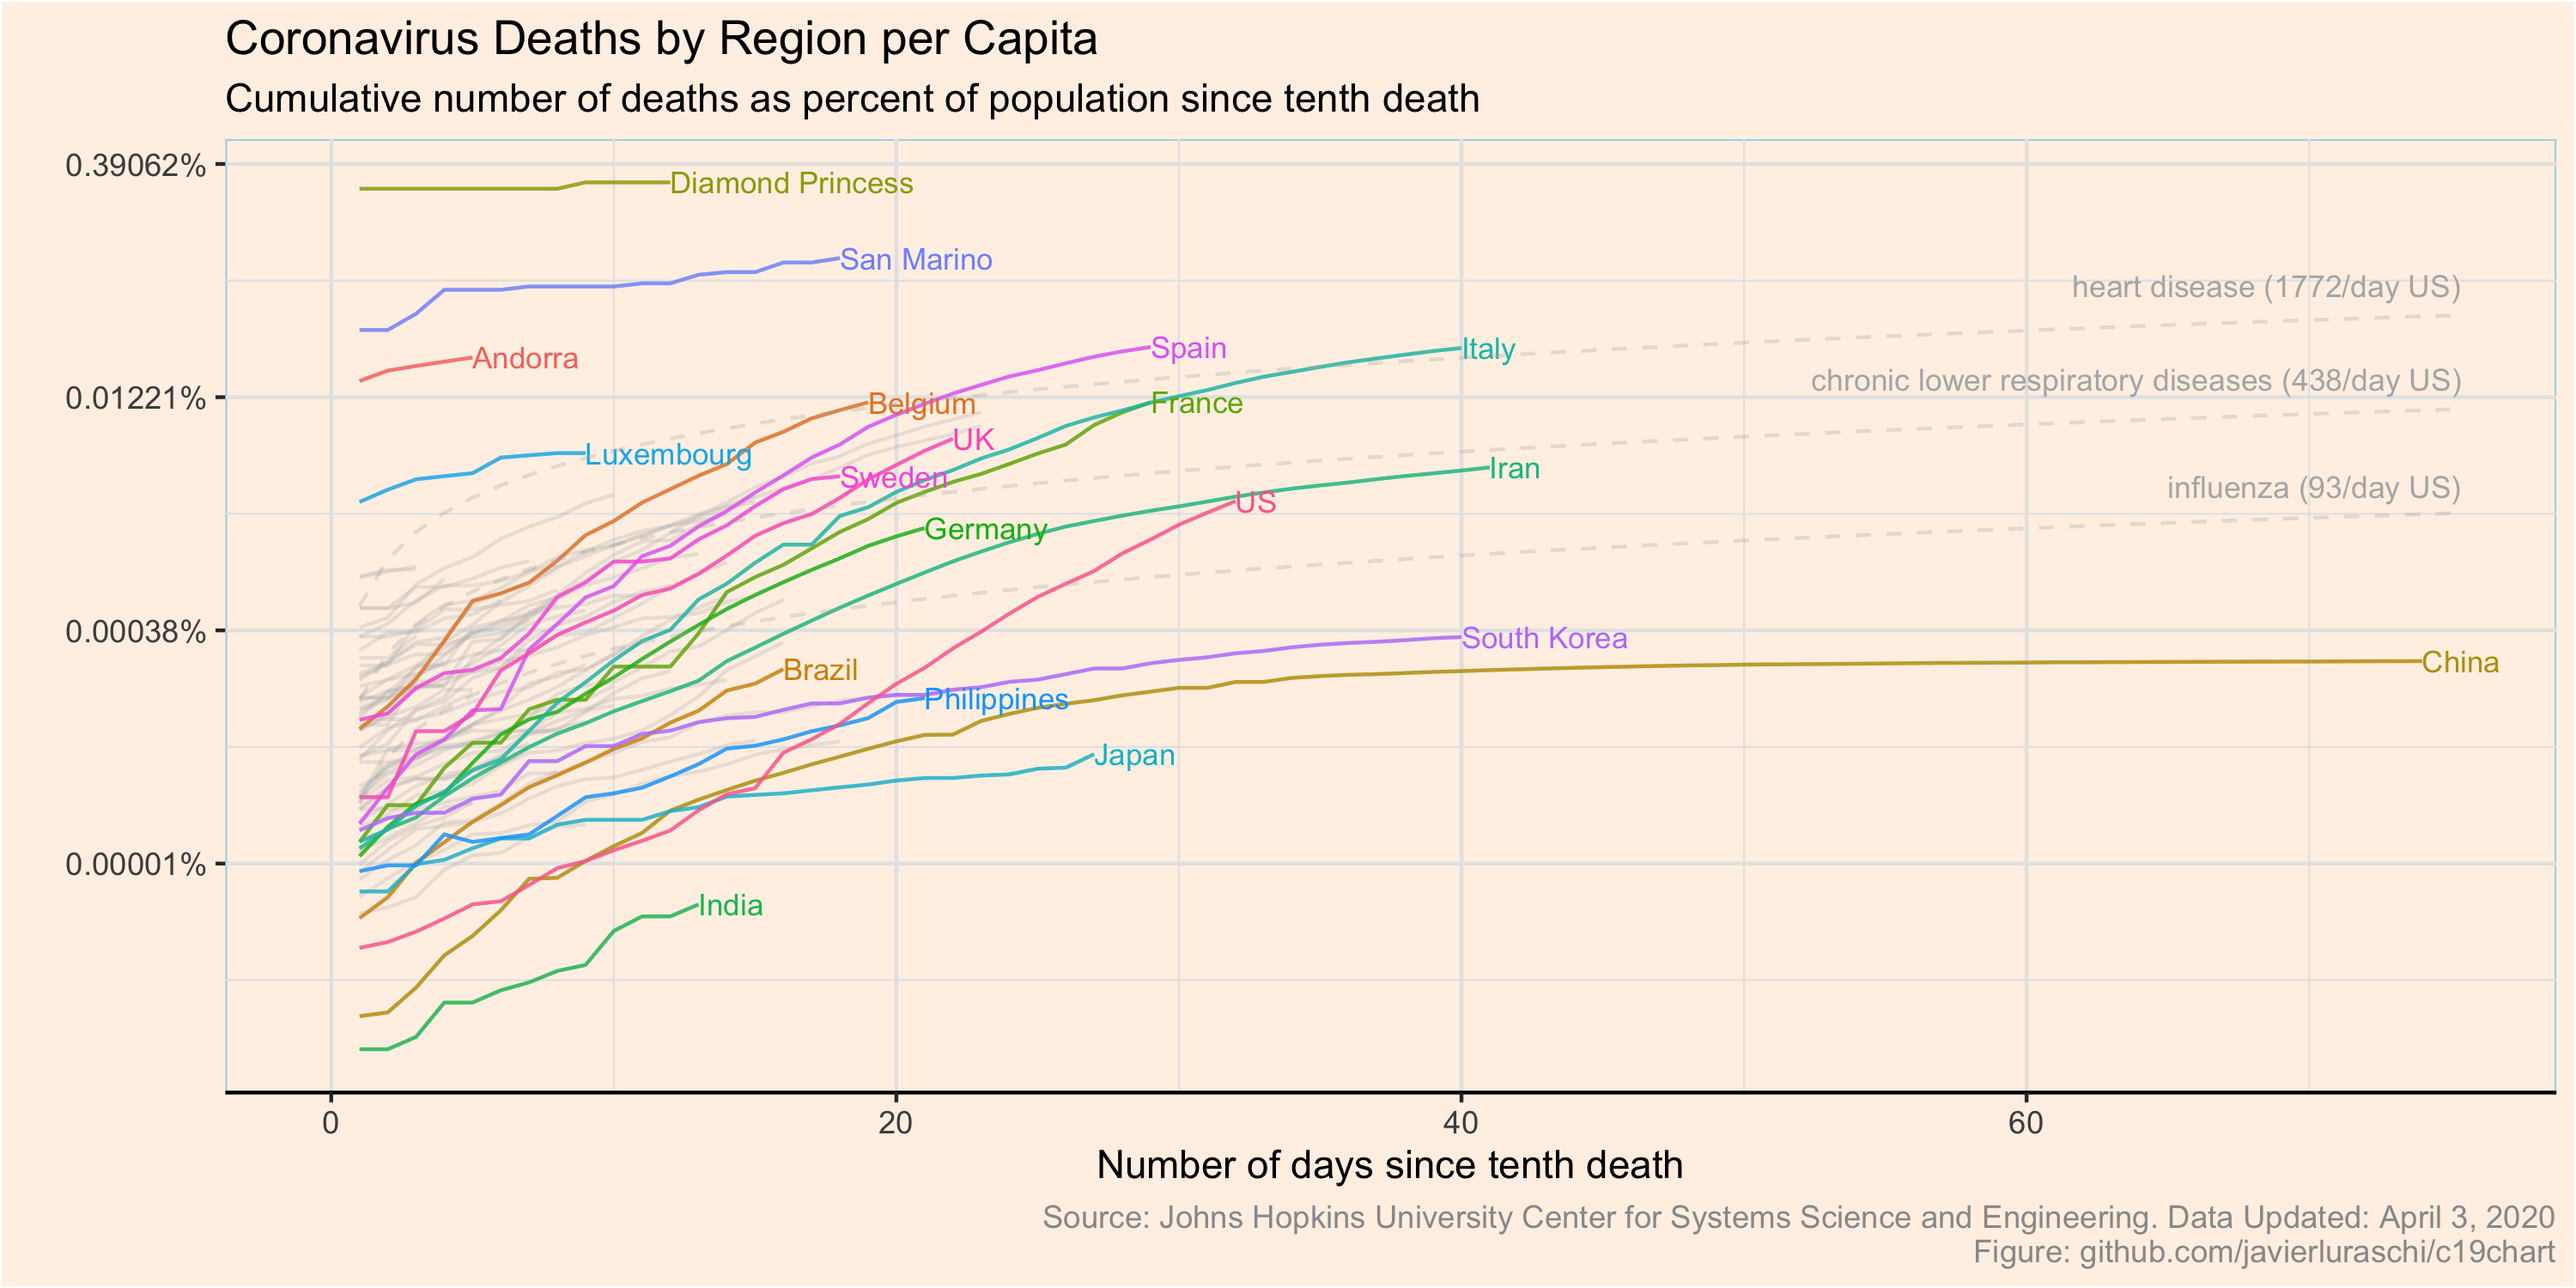
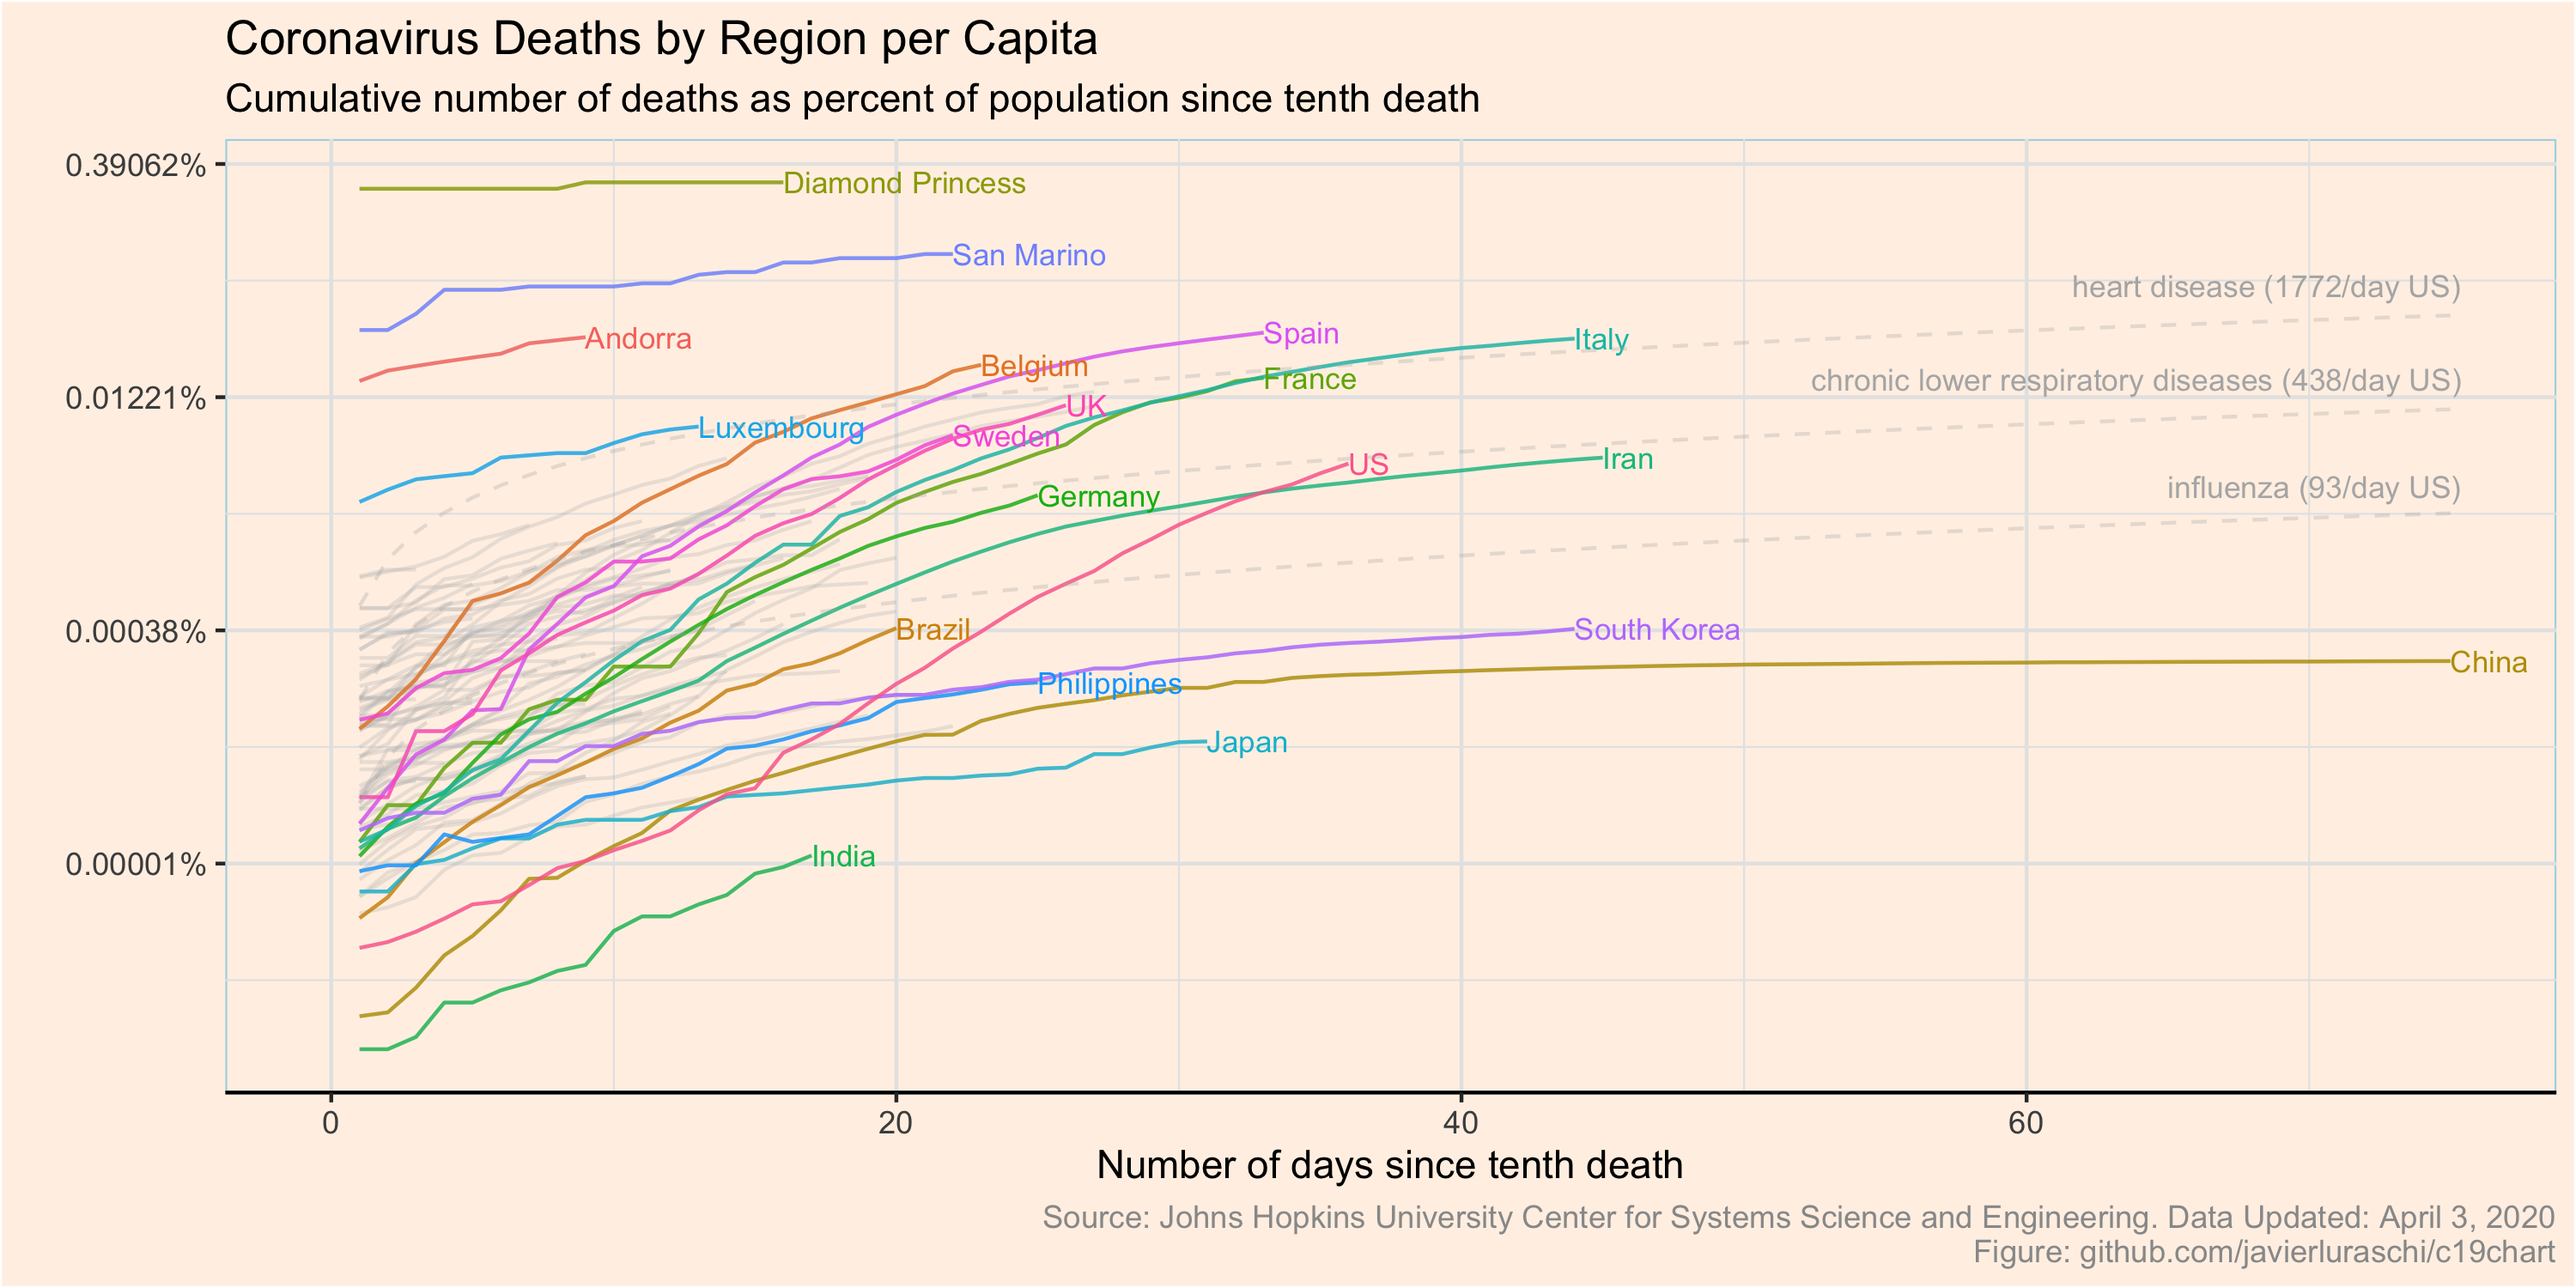
add population vs deaths chart

diff --git a/README.md b/README.md
@@ -89,6 +89,7 @@ population <- population %>%
       Country == "Myanmar"  ~ "Burma",
       Country == "Gambia, The" ~ "Gambia",
       Country == "Syrian Arab Republic" ~ "Syria",
+      Country == "Congo, Dem. Rep." ~ "Congo (Brazzaville)",
       TRUE ~ Country
     )
   )
@@ -110,13 +111,22 @@ covid_since_start <- since_start %>%
   left_join(population, by = "country") %>%
   mutate(total_percent = total / population)
 
-highlight_since_start <- filter(covid_since_start, country %in% c("San Marino", "Andorra", "Iceland", "India", "Luxembourg", "US", "Spain", "Italy", "Japan", "China", "Iran", "UK", "South Korea", "Singapore", "Diamond Princess", "Vietnam", "Taiwan*", "Germany", "France", "Monaco", "Sweden", "Philippines", "Belgium", "Brazil"))
+countries_highlight <- c("San Marino", "Andorra", "Iceland", "India", "Luxembourg", "US", "Spain", "Italy", "Japan", "China", "Iran", "UK", "South Korea", "Singapore", "Diamond Princess", "Vietnam", "Taiwan*", "Germany", "France", "Monaco", "Sweden", "Philippines", "Belgium", "Brazil")
+
+highlight_since_start <- filter(covid_since_start, country %in% countries_highlight)
 
 population_us <- population %>% filter(country == "US") %>% pull(population)
 total_us <- coronavirus %>% 
   filter(country == "US") %>%
   summarise(total = sum(cases)) %>%
   pull(total)
+
+# https://www.cdc.gov/flu/about/burden/2018-2019.html
+deaths_influenza <- data.frame(since_start = 1:80, total_percent = 1:80 * (34200 / 365) / population_us)
+# https://www.cdc.gov/nchs/fastats/leading-causes-of-death.htm
+deaths_clrd <- data.frame(since_start = 1:80, total_percent = 1:80 * (160201 / 365) / population_us)
+# https://www.cdc.gov/heartdisease/facts.htm
+deaths_heart <- data.frame( since_start = 1:80, total_percent = 1:80 * (647000 / 365) / population_us)
 
 highlight_since_start %>%
   ggplot(aes(x = since_start, y = total_percent, colour = country)) +
@@ -140,16 +150,53 @@ highlight_since_start %>%
           panel.grid.major = element_line(color="grey90"),
           panel.grid.minor = element_line(color="grey90"),
           panel.border = element_blank()) +
-    # https://www.cdc.gov/flu/about/burden/2018-2019.html
-    geom_hline(aes(yintercept = 34200 / population_us), colour="grey80", linetype="dashed") +
-    annotate("text", x=71.3, y = 34200 / population_us + 0.00006, label = "influenza (34K/year US)", size = 3.5, colour="grey70") +
-    # https://www.cdc.gov/nchs/fastats/leading-causes-of-death.htm
-    geom_hline(aes(yintercept = 160201 / population_us), colour="grey80", linetype="dashed") +
-    annotate("text", x=63.9, y = 160201 / population_us + 0.0003, label = "chronic lower respiratory diseases (160K/year US)", size = 3.5, colour="grey70") +
-    # https://www.cdc.gov/heartdisease/facts.htm
-    geom_hline(aes(yintercept = 647000 / population_us), colour="grey80", linetype="dashed") +
-    annotate("text", x=69.7, y = 647000 / population_us + 0.001, label = "heart disease (647K/year US)", size = 3.5, colour="grey70") +
+    geom_line(data = deaths_influenza, alpha = 0.3, colour="grey70", linetype="dashed") +
+    annotate("text", x=70.2, y = max(deaths_influenza$total_percent) + 0.000009, label = "influenza (93/day US)", size = 3, colour="grey70") +
+    geom_line(data = deaths_clrd, alpha = 0.3, colour="grey70", linetype="dashed") +
+    annotate("text", x=63.9, y = max(deaths_clrd$total_percent) + 0.00005, label = "chronic lower respiratory diseases (438/day US)", size = 3, colour="grey70") +
+    geom_line(data = deaths_heart, alpha = 0.3, colour="grey70", linetype="dashed") +
+    annotate("text", x=68.5, y = max(deaths_heart$total_percent) + 0.0002, label = "heart disease (1772/day US)", size = 3, colour="grey70") +
     ggsave("covid19-deaths-per-capita.png", device = "png", width = 10, height = 5)
 ```
 
+    ## Warning: Removed 3 row(s) containing missing values (geom_path).
+    
+    ## Warning: Removed 3 row(s) containing missing values (geom_path).
+
+    ## Warning: Removed 5 row(s) containing missing values (geom_path).
+    
+    ## Warning: Removed 5 row(s) containing missing values (geom_path).
+    
+    ## Warning: Removed 5 row(s) containing missing values (geom_path).
+
+    ## Warning: Removed 3 row(s) containing missing values (geom_path).
+    
+    ## Warning: Removed 3 row(s) containing missing values (geom_path).
+
+    ## Warning: Removed 5 row(s) containing missing values (geom_path).
+    
+    ## Warning: Removed 5 row(s) containing missing values (geom_path).
+    
+    ## Warning: Removed 5 row(s) containing missing values (geom_path).
+
 ![](README_files/figure-gfm/unnamed-chunk-5-1.png)<!-- -->
+
+``` r
+covid_since_start %>%
+  filter(since_start <= 14) %>%
+  group_by(country) %>%
+  summarise(total = sum(cases), days = max(since_start)) %>%
+  left_join(population, by = "country") %>%
+  ggplot(aes(x=population, y=total)) +
+  scale_x_continuous(trans='log2') +
+  scale_y_continuous(trans='log2') +
+  geom_dl(aes(label = country), method = list("last.bumpup", cex = 0.7, hjust=-0.2)) +
+  geom_smooth(method=lm) +
+  labs(title = "Countries deaths vs population after 10th death on 14th day") +
+  ggsave("covid19-deaths-population.png", device = "png", width = 12, height = 6)
+```
+
+    ## `geom_smooth()` using formula 'y ~ x'
+    ## `geom_smooth()` using formula 'y ~ x'
+
+![](README_files/figure-gfm/unnamed-chunk-6-1.png)<!-- -->
